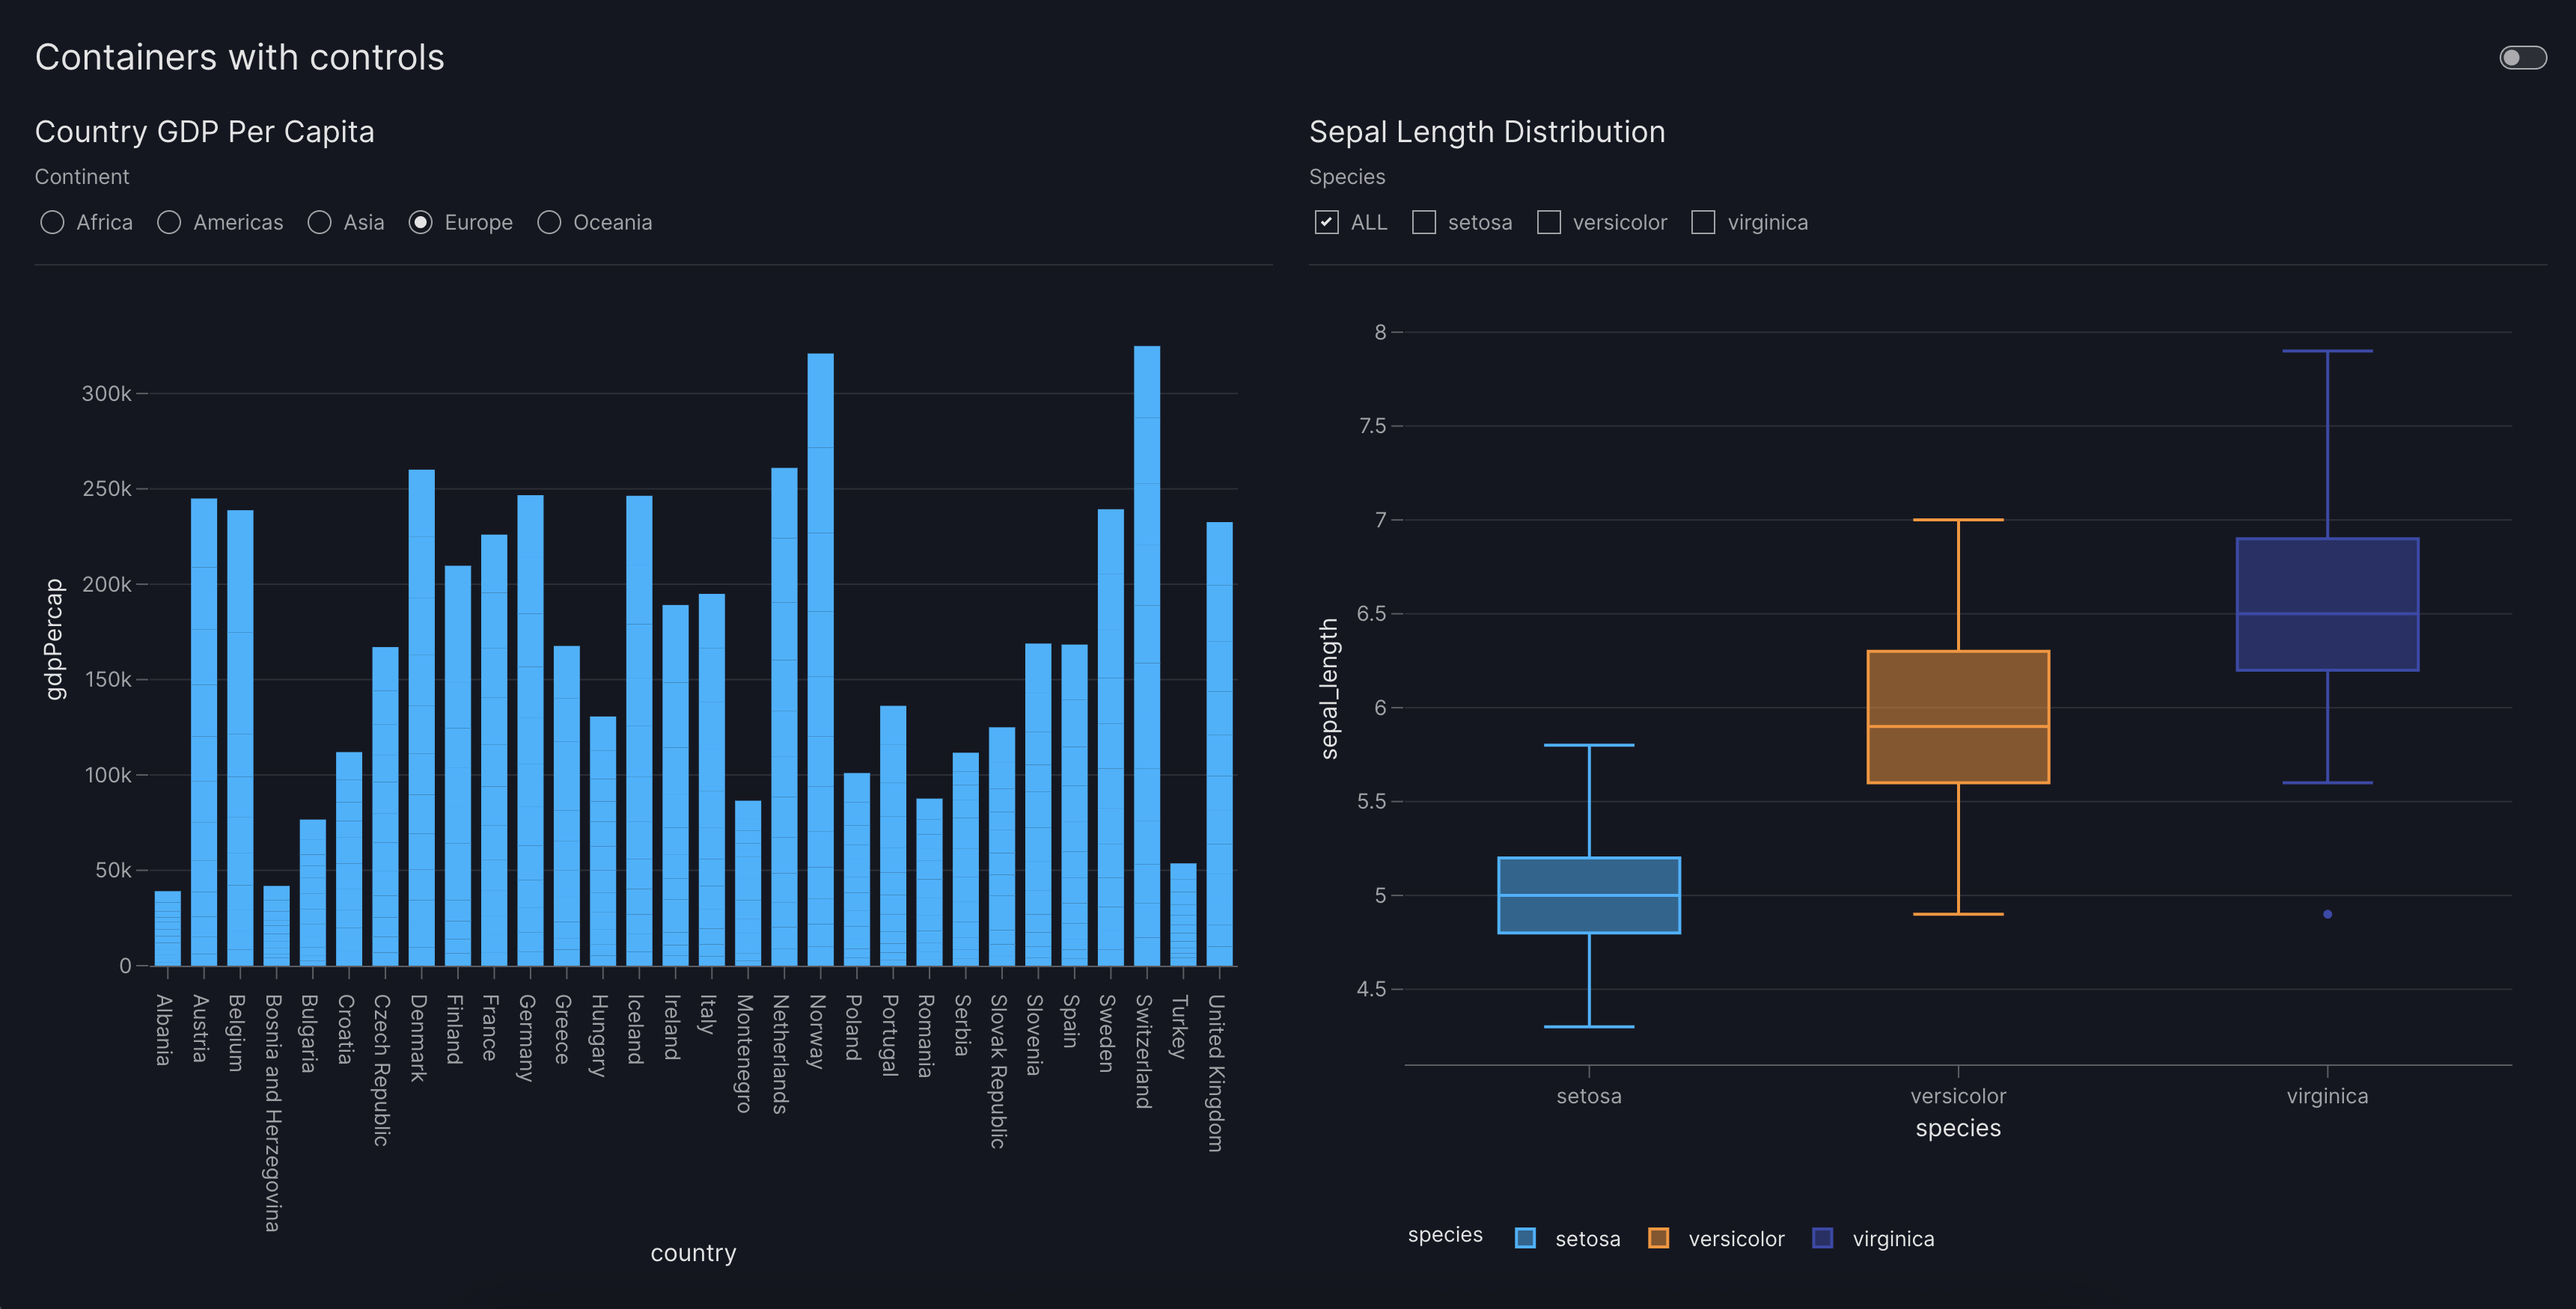
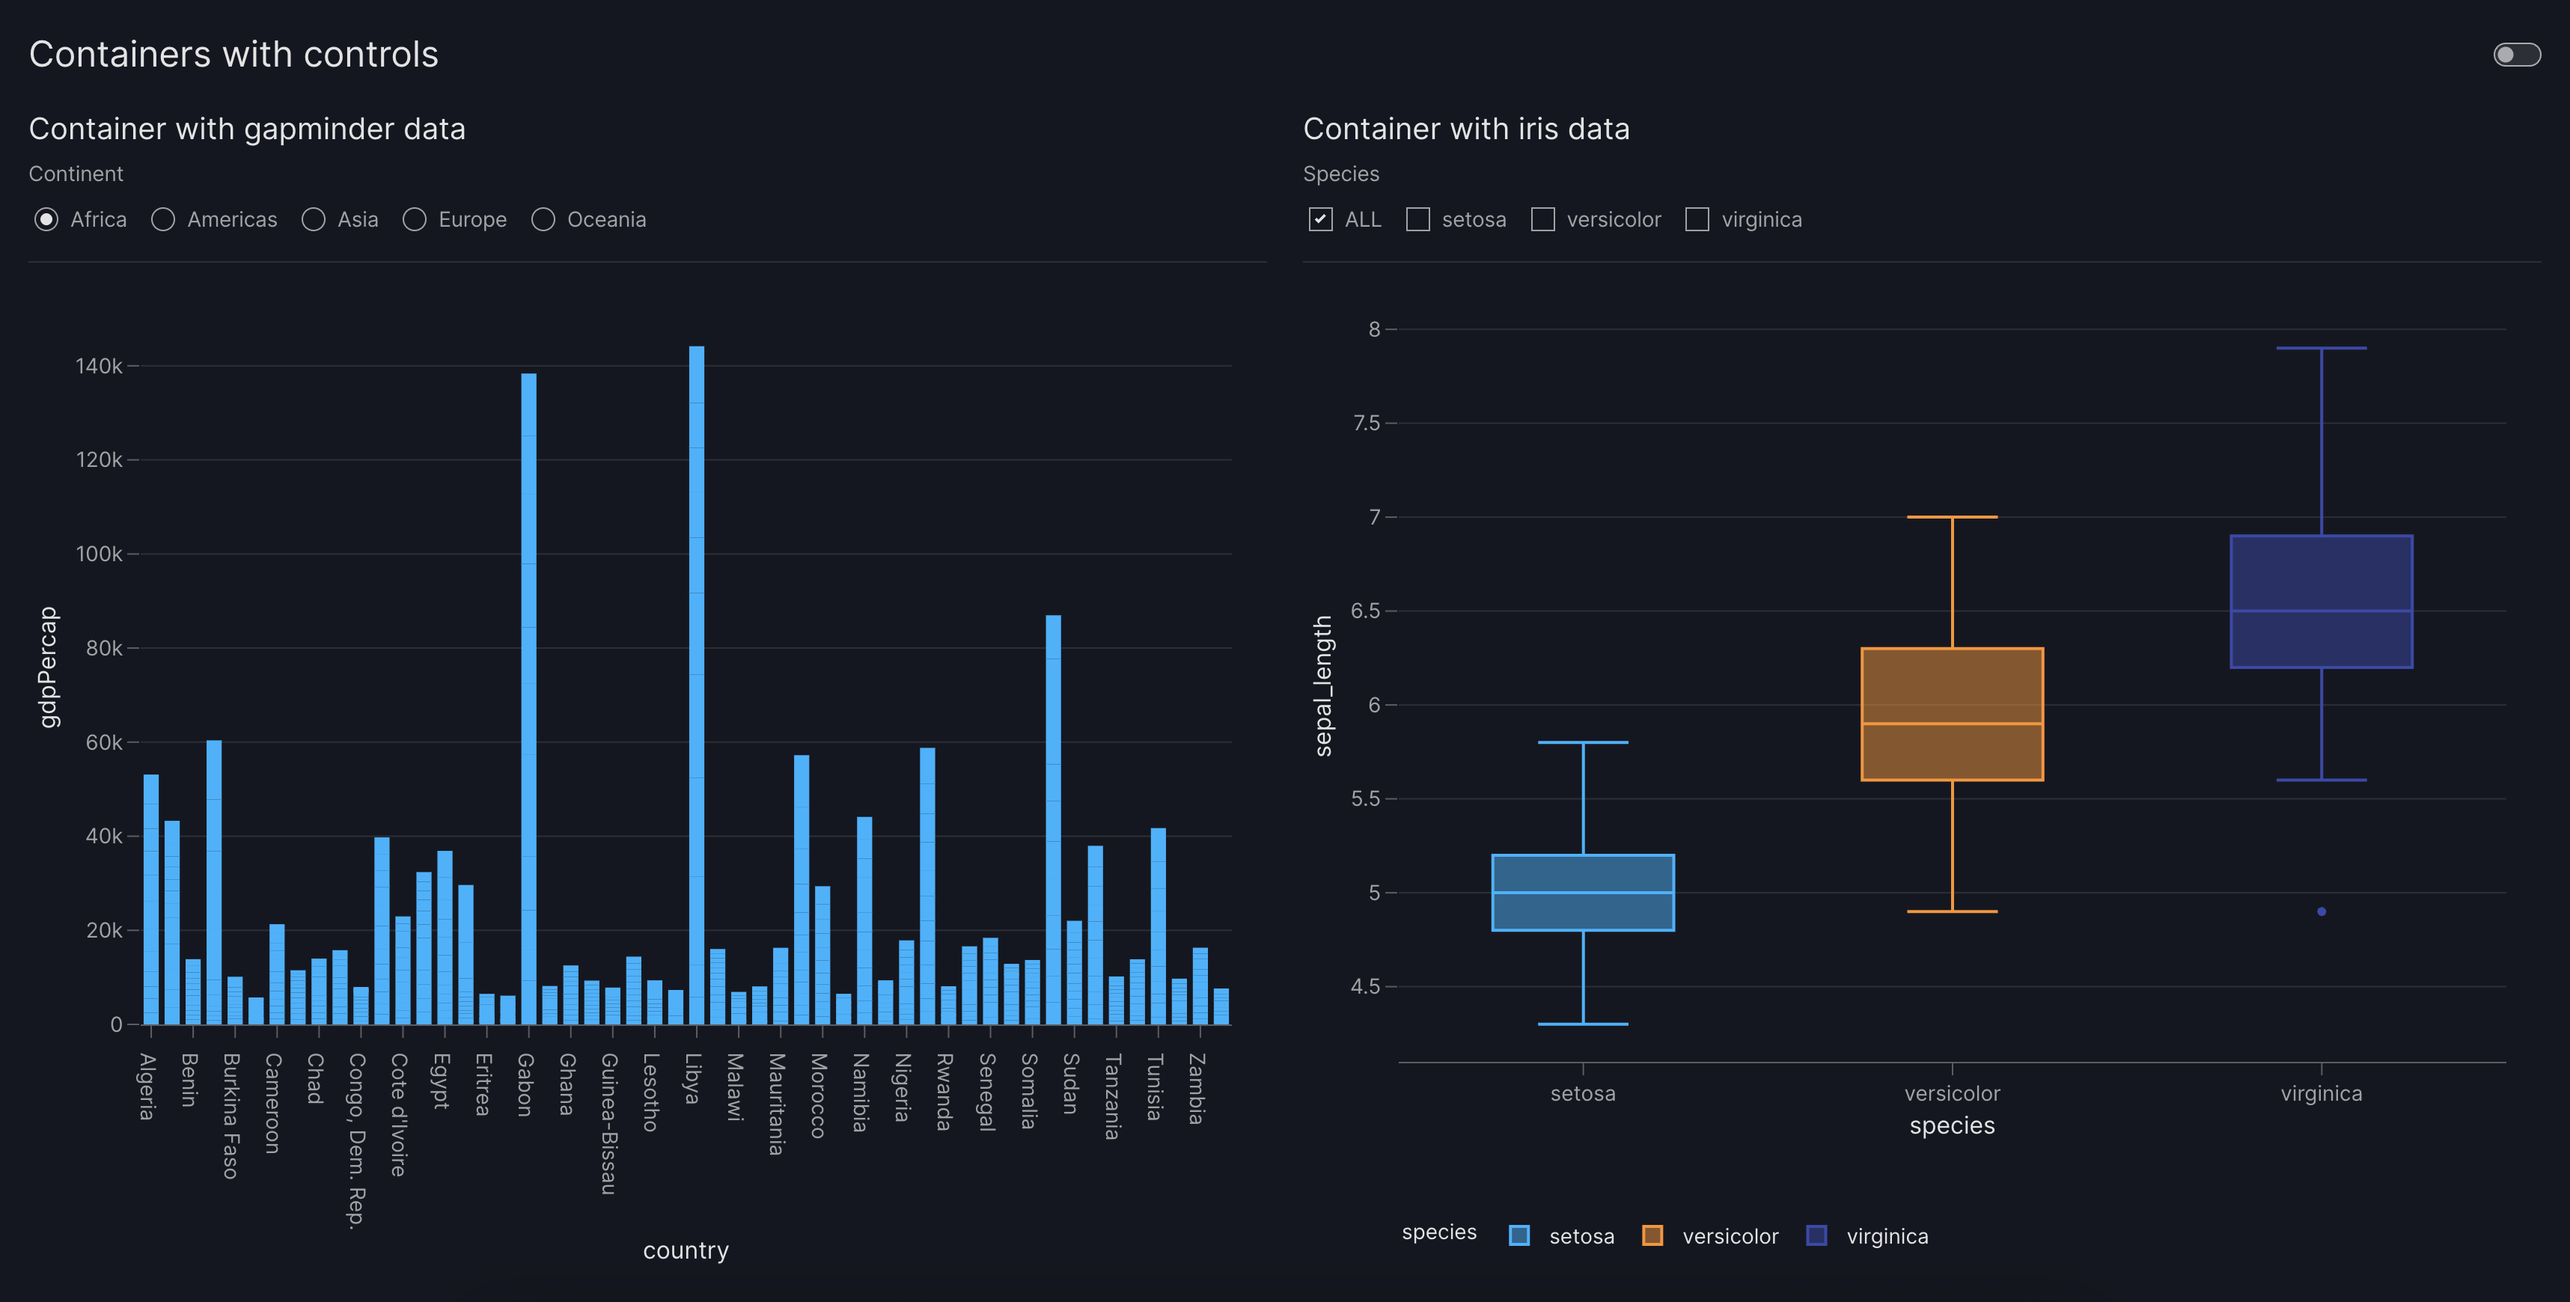
pr comments

diff --git a/vizro-core/src/vizro/models/_controls/filter.py b/vizro-core/src/vizro/models/_controls/filter.py
@@ -135,9 +135,9 @@ class Filter(VizroBaseModel):
         # If targets aren't explicitly provided then try to target all figures on the page. In this case we don't
         # want to raise an error if the column is not found in a figure's data_frame, it will just be ignored.
         # This is the case when bool(self.targets) is False.
-        # Possibly in future this will change (which would be breaking change).
-        page = model_manager._get_model_page(self)
-        proposed_targets = self._get_proposed_targets(page=page)
+        # If filter used within container and if targets aren't explicitly provided it will target all figures within
+        # that container. Possibly in future this will change (which would be breaking change).
+        proposed_targets = self._get_proposed_targets()
 
         # TODO: Currently dynamic data functions require a default value for every argument. Even when there is a
         #  dataframe parameter, the default value is used when pre-build the filter e.g. to find the targets,
@@ -163,7 +163,7 @@ class Filter(VizroBaseModel):
         self.selector.title = self.selector.title or self.column.title()
 
         # set default inline=True for container selectors
-        set_container_control_default(control=self, control_id=self.id, selector=self.selector)
+        set_container_control_default(control=self)
 
         if isinstance(self.selector, DISALLOWED_SELECTORS.get(self._column_type, ())):
             raise ValueError(
@@ -336,27 +336,24 @@ class Filter(VizroBaseModel):
         targeted_data = pd.concat([targeted_data, pd.Series(current_value)]).stack().dropna()  # noqa: PD013
         return sorted(set(targeted_data) - {ALL_OPTION})
 
-    def _get_proposed_targets(self, page):
+    def _get_proposed_targets(self):
         """Get all valid figure model targets for this control based on its location in the page hierarchy."""
         if self.targets:
             return self.targets
 
-        parent_container = self._find_parent_container(page)
-        target_scope = parent_container if parent_container else page
+        page = model_manager._get_model_page(self)
+        page_containers = model_manager._get_models(model_type=Container, root_model=page)
 
-        return [
-            model.id for model in cast(Iterable[VizroBaseModel], model_manager._get_models(FIGURE_MODELS, target_scope))
-        ]
-
-    def _find_parent_container(self, page):
-        """Find the container that contains this control, if any."""
-        page_containers = cast(Iterable[Container], model_manager._get_models(Container, page))
-
-        return next(
+        # Find the control's parent model. Set it as the control's parent container it exists.
+        # Otherwise set it as the control's page.
+        root_model = next(
             (
                 container
                 for container in page_containers
                 if any(control.id == self.id for control in container.controls)
             ),
-            None,
+            page,
         )
+        return [
+            model.id for model in cast(Iterable[VizroBaseModel], model_manager._get_models(FIGURE_MODELS, root_model))
+        ]

diff --git a/vizro-core/tests/unit/vizro/models/_controls/test_filter.py b/vizro-core/tests/unit/vizro/models/_controls/test_filter.py
@@ -868,18 +868,14 @@ class TestPreBuildMethod:
 
     @pytest.mark.usefixtures("managers_one_page_container_controls")
     def test_container_filter_defaults(self):
-        filter = vm.Filter(column="continent", selector=vm.Checklist(value=["Europe"]))
-        page = model_manager["test_container"]
-        page.components[0].controls = [filter]
+        filter = model_manager["container_filter"]
         filter.pre_build()
 
         assert filter.selector.extra == {"inline": True}
 
     @pytest.mark.usefixtures("managers_one_page_container_controls")
     def test_container_filter_default_targets(self):
-        filter = vm.Filter(column="continent", selector=vm.Checklist(value=["Europe"]))
-        page = model_manager["test_container"]
-        page.components[0].controls = [filter]
+        filter = model_manager["container_filter"]
         filter.pre_build()
 
         assert filter.targets == ["scatter_chart"]

diff --git a/vizro-core/tests/unit/vizro/models/_controls/conftest.py b/vizro-core/tests/unit/vizro/models/_controls/conftest.py
@@ -31,8 +31,16 @@ def managers_one_page_container_controls(gapminder):
                 components=[
                     vm.Graph(id="scatter_chart", figure=px.scatter(gapminder, x="lifeExp", y="gdpPercap")),
                 ],
+                controls=[
+                    vm.Filter(id="container_filter", column="continent", selector=vm.Checklist(value=["Europe"])),
+                    vm.Parameter(
+                        id="container_parameter",
+                        targets=["scatter_chart.x"],
+                        selector=vm.Checklist(options=["lifeExp", "gdpPercap", "pop"], value=["lifeExp"]),
+                    ),
+                ],
             ),
             vm.Graph(id="bar_chart", figure=px.bar(gapminder, x="country", y="gdpPercap")),
         ],
     )
-    Vizro._pre_build()
+    # Vizro._pre_build()

diff --git a/vizro-core/src/vizro/models/_controls/_controls_utils.py b/vizro-core/src/vizro/models/_controls/_controls_utils.py
@@ -21,9 +21,9 @@ def check_targets_present_on_page(control: ControlType) -> None:
             raise ValueError(f"Target {target_id} not found within the page {control_page.id}.")
 
 
-def set_container_control_default(control, control_id, selector):
+def set_container_control_default(control: ControlType) -> None:
     page = model_manager._get_model_page(control)
-    is_page_control = any(control.id == control_id for control in page.controls)
+    control_is_on_page = any(pg_control.id == control.id for pg_control in page.controls)
 
-    if not is_page_control and isinstance(selector, (Checklist, RadioItems)):
-        return selector.extra.setdefault("inline", True)
+    if not control_is_on_page and isinstance(control.selector, (Checklist, RadioItems)):
+        control.selector.extra.setdefault("inline", True)

diff --git a/vizro-core/tests/unit/vizro/models/_controls/test_parameter.py b/vizro-core/tests/unit/vizro/models/_controls/test_parameter.py
@@ -163,12 +163,7 @@ class TestPreBuildMethod:
 
     @pytest.mark.usefixtures("managers_one_page_container_controls")
     def test_set_container_parameter_default(self):
-        parameter = Parameter(
-            targets=["scatter_chart.x"],
-            selector=vm.Checklist(options=["lifeExp", "gdpPercap", "pop"], value=["lifeExp"]),
-        )
-        page = model_manager["test_container"]
-        page.components[0].controls = [parameter]
+        parameter = model_manager["container_parameter"]
         parameter.pre_build()
 
         assert parameter.selector.extra == {"inline": True}

diff --git a/vizro-core/src/vizro/managers/_model_manager.py b/vizro-core/src/vizro/managers/_model_manager.py
@@ -73,8 +73,8 @@ class ModelManager:
     ) -> Generator[Model, None, None]:
         """Iterates through all models of type `model_type` (including subclasses).
 
-        If `model_type` not given then look at all models.
-        If `root_model` specified then only give models from that container.
+        If `model_type` is specified, return only models matching that type. Otherwise, include all types.
+        If `root_model` is specified, only return models that are descendants of the given `root_model`.
         """
         import vizro.models as vm
 

diff --git a/vizro-core/src/vizro/models/_components/container.py b/vizro-core/src/vizro/models/_components/container.py
@@ -191,10 +191,8 @@ class Container(VizroBaseModel):
         )
 
     def _build_control_panel(self):
-        controls_content = [control.build() for control in self.controls] if self.controls else []
         return html.Div(
             id=f"{self.id}-control-panel",
-            children=controls_content,
-            hidden=not controls_content,
+            children=[control.build() for control in self.controls],
             className="container-controls-panel",
         )

diff --git a/vizro-core/src/vizro/models/_controls/parameter.py b/vizro-core/src/vizro/models/_controls/parameter.py
@@ -78,7 +78,7 @@ class Parameter(VizroBaseModel):
     @_log_call
     def pre_build(self):
         check_targets_present_on_page(control=self)
-        set_container_control_default(control=self, control_id=self.id, selector=self.selector)
+        set_container_control_default(control=self)
         self._check_numerical_and_temporal_selectors_values()
         self._check_categorical_selectors_options()
         self._set_selector_title()

diff --git a/vizro-core/tests/unit/vizro/models/_components/test_container.py b/vizro-core/tests/unit/vizro/models/_components/test_container.py
@@ -220,7 +220,6 @@ class TestContainerBuildMethod:
             html.Div(
                 id="container-control-panel",
                 children=[],
-                hidden=False,
                 className="container-controls-panel",
             ),
             keys_to_strip={"children"},

diff --git a/vizro-core/docs/pages/user-guides/container.md b/vizro-core/docs/pages/user-guides/container.md
@@ -498,9 +498,13 @@ You can provide markdown text as a string to use the default info icon or a [`To
 
 ## Add controls to container
 
-The `Container` now accepts a `controls` argument, where you can define container-specific controls to group related components for better interaction.
+The `Container` now accepts a `controls` argument, where you can define container-specific controls to group related components for better interaction. By default, controls only affect components inside their own container.
 
-By default, controls only affect components inside their own container.
+Here are a few cases where you might want to use `controls` within `Container`:
+
+- displaying multiple datasets on the same page
+- isolating container-specific data without affecting the rest of the page
+- providing detailed views that don't influence page-level data
 
 !!! example "Container with controls"
 
@@ -519,12 +523,12 @@ By default, controls only affect components inside their own container.
             layout=vm.Grid(grid=[[0, 1]]),
             components=[
                 vm.Container(
-                    title="Country GDP Per Capita",
+                    title="Container with gapminder data",
                     components=[vm.Graph(id="bar_chart", figure=px.bar(gapminder, x="country", y="gdpPercap"))],
                     controls=[vm.Filter(column="continent", selector=vm.RadioItems())]
                 ),
                 vm.Container(
-                    title="Sepal Length Distribution",
+                    title="Container with iris data",
                     components=[vm.Graph(figure=px.box(iris, x="species", y="sepal_length", color="species"))],
                     controls=[vm.Filter(column="species", selector=vm.Checklist())]
                 )
@@ -541,13 +545,13 @@ By default, controls only affect components inside their own container.
         # Still requires a .py to add data to the data manager and parse YAML configuration
         # See yaml_version example
         pages:
-          - title: Country GDP Per Capita
+          - title: Containers with controls
             layout:
               grid: [[0, 1]]
               type: grid
             components:
               - type: container
-                title: Container with checklist
+                title: Container with gapminder data
                 components:
                   - type: graph
                     figure:
@@ -561,7 +565,7 @@ By default, controls only affect components inside their own container.
                       type: radioitems
                     type: filter
               - type: container
-                title: Sepal Length Distribution
+                title: Container with iris data
                 components:
                   - type: graph
                     figure:
